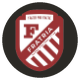
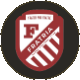
Quitar flechas de la barra y fondo oscuro de escudos nuevos
- Ocultar flechas de la barra de scroll en Chrome
- Quitar disco oscuro de los escudos de Fratria y Berane

Changed region(s): [[0.0, 0.0, 1.0, 1.0]]

diff --git a/src/app/components/fernando/fernando-timeline.css b/src/app/components/fernando/fernando-timeline.css
@@ -1,14 +1,14 @@
 .fr-timeline-scroll {
   color-scheme: dark;
-  scrollbar-width: thin;
-  scrollbar-color: #c9a84c rgba(240, 237, 232, 0.08);
 }
 
 .fr-timeline-scroll::-webkit-scrollbar {
   height: 3px;
 }
 
-.fr-timeline-scroll::-webkit-scrollbar-button {
+.fr-timeline-scroll::-webkit-scrollbar-button,
+.fr-timeline-scroll::-webkit-scrollbar-button:horizontal:decrement,
+.fr-timeline-scroll::-webkit-scrollbar-button:horizontal:increment {
   display: none;
   width: 0;
   height: 0;
